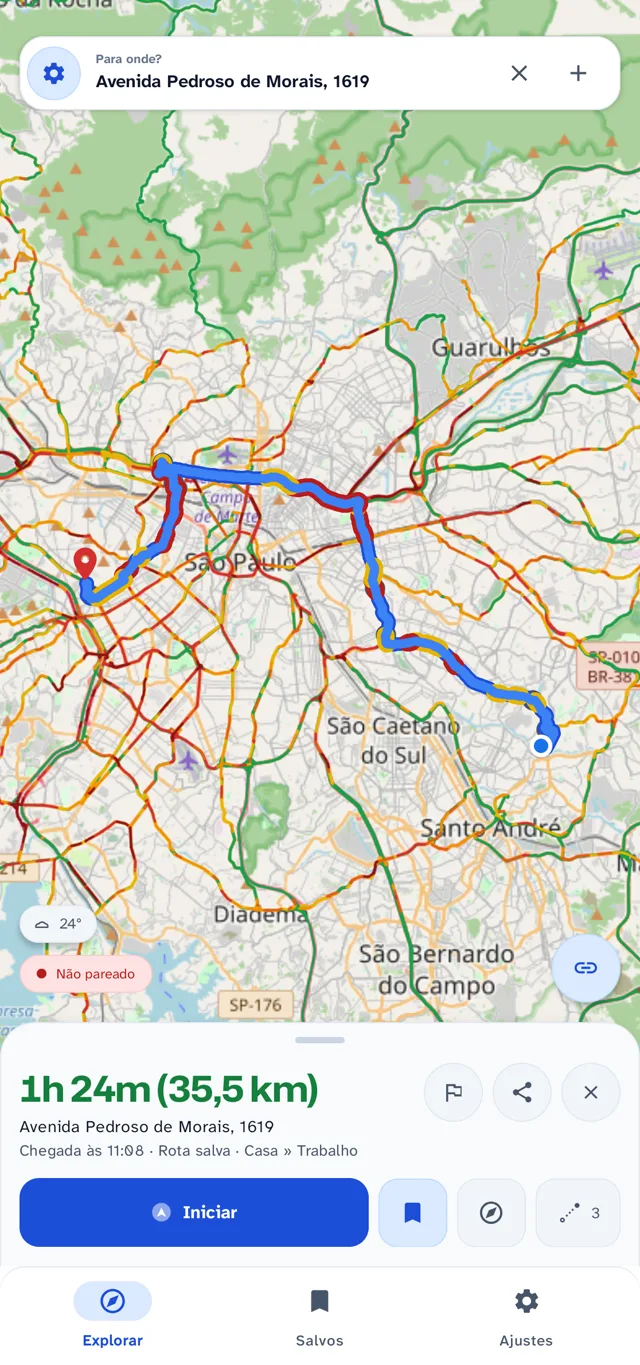
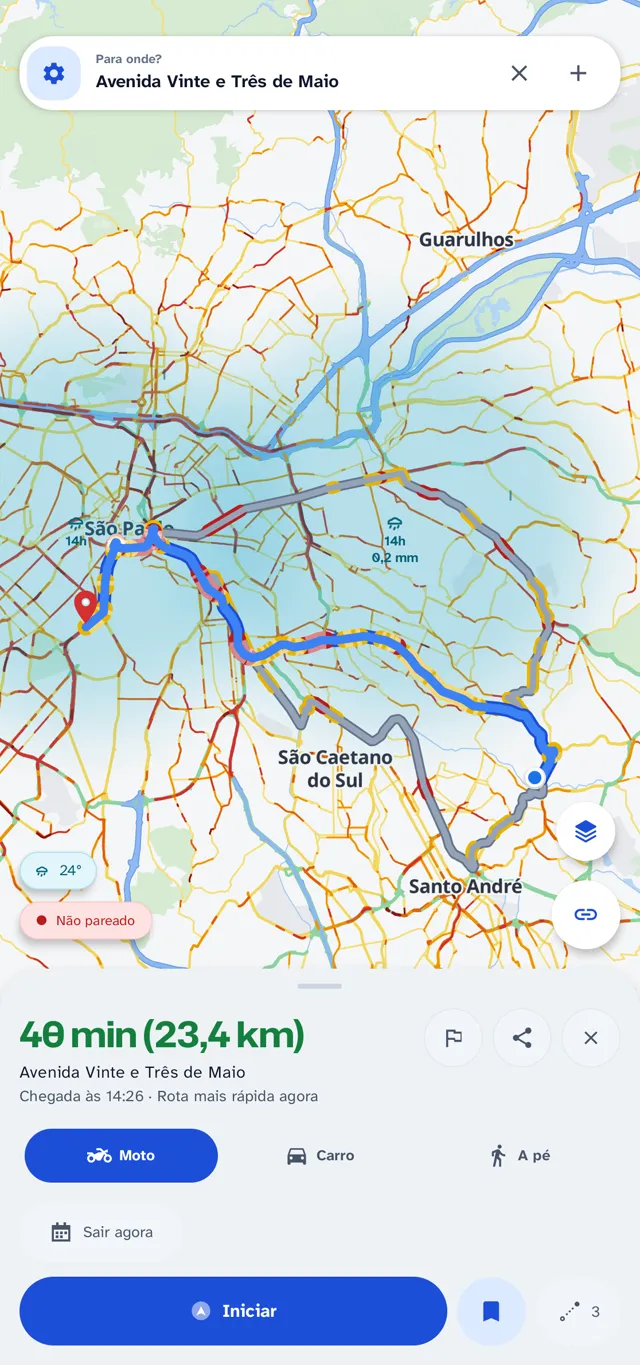
feat: show the features added since app 1.18
New feature cards, a Rota Biker passport section and fresh app screenshots
that leave out the home address shown by the old saved routes shot.

diff --git a/src/app/sections/passport-section.ts b/src/app/sections/passport-section.ts
@@ -1,0 +1,134 @@
+import { ChangeDetectionStrategy, Component } from '@angular/core';
+
+import { RevealDirective } from '../core/reveal.directive';
+import { Icon } from '../shared/icon';
+import { PhoneFrame, PhoneShot } from '../shared/phone-frame';
+
+const COVER: readonly PhoneShot[] = [
+  {
+    src: 'assets/shots/passport-cover.webp',
+    alt: 'Capa do Passaporte Rota Biker no app, com 2 de 37 monumentos carimbados',
+  },
+];
+
+const STAMP: readonly PhoneShot[] = [
+  {
+    src: 'assets/shots/passport-stamp.webp',
+    alt: 'Página do passaporte com o carimbo do monumento 27, Restaurante Pedra do Baú, e a data da visita',
+  },
+];
+
+@Component({
+  selector: 'app-passport-section',
+  imports: [Icon, PhoneFrame, RevealDirective],
+  template: `
+    <section class="section passport" id="passaporte">
+      <div class="container layout">
+        <header class="section-heading" appReveal>
+          <span class="eyebrow"><app-icon name="passport" [size]="18" /> Rota Biker</span>
+          <h2>Um passaporte para carimbar na estrada</h2>
+          <p>
+            O MUSE conhece os monumentos da Rota Biker. Eles aparecem no mapa do app e no painel, e
+            o passaporte fica no app para folhear: capa, a sua identificação com foto e uma página
+            por monumento, com o carimbo e a data.
+          </p>
+          <ul class="points">
+            <li>
+              <app-icon name="route" [size]="22" />
+              <span
+                ><strong>Desvio sugerido</strong>: ao planejar uma rota que passa perto de um
+                monumento sem carimbo, um toque e ele vira parada</span
+              >
+            </li>
+            <li>
+              <app-icon name="check" [size]="22" />
+              <span
+                ><strong>Carimbo no fim da viagem</strong>: passou por um monumento, o app pergunta
+                se você carimbou</span
+              >
+            </li>
+            <li>
+              <app-icon name="cloud" [size]="22" />
+              <span
+                ><strong>Guardado na sua conta Google</strong>, com a foto, em todos os seus
+                celulares</span
+              >
+            </li>
+          </ul>
+        </header>
+
+        <div class="phones" appReveal="120">
+          <app-phone-frame class="phones__back" [shots]="cover" [width]="250" />
+          <app-phone-frame class="phones__front" [shots]="stamp" [width]="250" />
+        </div>
+      </div>
+    </section>
+  `,
+  styles: `
+    .passport {
+      background: linear-gradient(180deg, transparent, #f2f7f7 30%, #f2f7f7 70%, transparent);
+    }
+    .layout {
+      display: grid;
+      grid-template-columns: minmax(0, 1fr) minmax(0, 1fr);
+      gap: 48px;
+      align-items: center;
+    }
+    .section-heading {
+      margin-bottom: 0;
+    }
+    .points {
+      display: grid;
+      gap: 16px;
+      margin: 32px 0 0;
+      padding: 0;
+      list-style: none;
+    }
+    .points li {
+      display: flex;
+      gap: 14px;
+      align-items: flex-start;
+      color: var(--ink-muted);
+      font-size: 17px;
+      line-height: 26px;
+    }
+    .points app-icon {
+      flex: none;
+      margin-top: 2px;
+      color: #1f6b6b;
+    }
+    .points strong {
+      color: var(--ink);
+    }
+    .phones {
+      position: relative;
+      display: flex;
+      justify-content: center;
+      padding-block: 24px;
+    }
+    .phones__back {
+      transform: rotate(-6deg) translateX(40px);
+    }
+    .phones__front {
+      transform: rotate(5deg) translate(-40px, 36px);
+    }
+    @media (max-width: 900px) {
+      .layout {
+        grid-template-columns: minmax(0, 1fr);
+      }
+    }
+    @media (max-width: 560px) {
+      .phones__back {
+        display: none;
+      }
+      .phones__front {
+        transform: none;
+      }
+    }
+  `,
+  changeDetection: ChangeDetectionStrategy.OnPush,
+})
+export class PassportSection {
+  protected readonly cover = COVER;
+  protected readonly stamp = STAMP;
+}

diff --git a/src/app/sections/features.ts b/src/app/sections/features.ts
@@ -21,13 +21,49 @@ const FEATURES: readonly Feature[] = [
     icon: 'gauge',
     tone: 'coral',
     title: 'Velocímetro com o limite da via',
-    text: 'A sua velocidade em números grandes. Quando você passa do limite, o número fica vermelho e a placa do limite aparece. O limite vem do mapa e, onde o mapa não diz, do padrão daquele tipo de via.',
+    text: 'A sua velocidade em números grandes. A placa do limite fica ao lado, e quando você passa dele o número fica vermelho. O limite vem do mapa e, onde o mapa não diz, do padrão daquele tipo de via.',
   },
   {
     icon: 'bell',
     tone: 'sun',
-    title: '18 tipos de alerta',
+    title: '19 tipos de alerta',
     text: 'Radar, lombada, pedágio, semáforo, passagem de trem, trecho com acidentes de moto e mais, avisados antes de você chegar, no app e no guidão.',
+  },
+  {
+    icon: 'voice',
+    tone: 'berry',
+    title: 'Voz no fone',
+    text: '"Em 200 metros, vire à esquerda na Avenida Paulista." O app fala as manobras e os alertas no fone ou no intercomunicador, sem internet. Escolha sem som, só alertas ou tudo.',
+  },
+  {
+    icon: 'layers',
+    tone: 'sky',
+    title: 'Mapa em 3D',
+    text: 'Um mapa desenhado para o MUSE, inclinado à frente como no Waze, em 2D ou com o norte para cima. O painel acompanha: o mapa dele também fica em perspectiva.',
+  },
+  {
+    icon: 'vehicle',
+    tone: 'coral',
+    title: 'De moto, de carro ou a pé',
+    text: 'A rota de moto foge das vias proibidas para moto no horário em que você passa por elas. A de carro respeita o rodízio de São Paulo pela sua placa.',
+  },
+  {
+    icon: 'calendar',
+    tone: 'leaf',
+    title: 'Viagem planejada',
+    text: 'Marque a saída para mais tarde, até uma semana à frente. O tempo é o do trânsito de costume naquela hora, o clima é o da hora em que você passa, e o app compara cinco horários de saída.',
+  },
+  {
+    icon: 'lane',
+    tone: 'sky',
+    title: 'Faixa Azul',
+    text: 'Os trechos de Faixa Azul de São Paulo aparecem no mapa, a rota de moto segue pelos corredores, e a prévia diz quanto do caminho é na faixa.',
+  },
+  {
+    icon: 'photo',
+    tone: 'sun',
+    title: 'Veja o destino antes de sair',
+    text: 'Fotos da rua em volta do destino e, onde houver, uma vista em 360° para olhar em volta e andar pela rua. Segure o dedo no mapa para marcar qualquer ponto.',
   },
   {
     icon: 'rain',
@@ -45,7 +81,7 @@ const FEATURES: readonly Feature[] = [
     icon: 'traffic',
     tone: 'coral',
     title: 'Trânsito ao vivo',
-    text: 'O trecho parado aparece em amarelo ou vermelho ao longo da rota, como no Waze, e a hora de chegada leva em conta que a moto passa pelo corredor.',
+    text: 'O trânsito pinta a própria via: laranja quando está lento, vermelho quando está pesado, vinho quando está parado. Vale para todo piloto, sem conta nenhuma, e a hora de chegada conta que a moto passa pelo corredor.',
   },
   {
     icon: 'stops',
@@ -57,7 +93,7 @@ const FEATURES: readonly Feature[] = [
     icon: 'toll',
     tone: 'sun',
     title: 'Pedágio sem cancela',
-    text: 'Nas rodovias com pedágio automático, o app percebe quando você passa e lembra do prazo para pagar, com a placa de cada moto cadastrada.',
+    text: 'Nas rodovias com pedágio automático, o app percebe quando você passa e lembra do prazo para pagar, com a placa de cada veículo cadastrado.',
   },
   {
     icon: 'history',
@@ -69,7 +105,7 @@ const FEATURES: readonly Feature[] = [
     icon: 'cloud',
     tone: 'leaf',
     title: 'Sincroniza com a sua conta Google',
-    text: 'Lugares, rotas salvas, viagens e motos ficam guardados no seu Google Drive. Trocou de celular, está tudo lá. Ninguém mais tem acesso.',
+    text: 'Lugares, rotas salvas, viagens, veículos e o passaporte ficam guardados no seu Google Drive. Trocou de celular, está tudo lá. Ninguém mais tem acesso.',
   },
   {
     icon: 'update',

diff --git a/src/app/shared/icon.ts b/src/app/shared/icon.ts
@@ -40,6 +40,14 @@ const ICONS: Record<string, string> = {
   file: 'M7 3h7l5 5v13H7V3Zm7 0v5h5M10 13h5m-5 4h5',
   install: 'M12 3v10m0 0 4-4m-4 4-4-4M5 17v2a2 2 0 0 0 2 2h10a2 2 0 0 0 2-2v-2',
   info: 'M12 3a9 9 0 1 0 0 18 9 9 0 0 0 0-18Zm0 5h.01M12 11v6',
+  voice: 'M4 10v4h4l5 4V6L8 10H4Zm12-1a4 4 0 0 1 0 6m2.5-8.5a7.5 7.5 0 0 1 0 11',
+  layers: 'm12 3 9 5-9 5-9-5 9-5Zm-9 9 9 5 9-5M3 16l9 5 9-5',
+  vehicle:
+    'M5 17a2 2 0 1 0 4 0 2 2 0 0 0-4 0Zm10 0a2 2 0 1 0 4 0 2 2 0 0 0-4 0ZM3 17V12l2-5h14l2 5v5M3 12h18M9 17h6',
+  lane: 'M5 21 9 3m10 18L15 3m-3 2v2m0 4v2m0 4v2',
+  photo:
+    'M4 7h3l2-3h6l2 3h3a1 1 0 0 1 1 1v11a1 1 0 0 1-1 1H4a1 1 0 0 1-1-1V8a1 1 0 0 1 1-1Zm8 3a3.5 3.5 0 1 0 0 7 3.5 3.5 0 0 0 0-7Z',
+  passport: 'M6 3h11a1 1 0 0 1 1 1v16a1 1 0 0 1-1 1H6V3Zm6 4a3 3 0 1 0 0 6 3 3 0 0 0 0-6Zm-3 10h6',
   github:
     'M12 3a9 9 0 0 0-2.8 17.5c.4.1.6-.2.6-.4v-1.6c-2.5.5-3-1.1-3-1.1-.4-1-1-1.3-1-1.3-.8-.6.1-.6.1-.6.9.1 1.4.9 1.4.9.8 1.4 2.1 1 2.6.8.1-.6.3-1 .6-1.2-2-.2-4.1-1-4.1-4.4 0-1 .3-1.8.9-2.4-.1-.2-.4-1.2.1-2.4 0 0 .8-.2 2.5.9a8.6 8.6 0 0 1 4.6 0c1.7-1.1 2.5-.9 2.5-.9.5 1.2.2 2.2.1 2.4.6.6.9 1.4.9 2.4 0 3.4-2.1 4.2-4.1 4.4.3.3.6.8.6 1.6v2.4c0 .2.2.5.6.4A9 9 0 0 0 12 3Z',
 };

diff --git a/src/app/sections/hero.ts b/src/app/sections/hero.ts
@@ -18,16 +18,15 @@ import { PhoneFrame, PhoneShot } from '../shared/phone-frame';
 const SHOTS: readonly PhoneShot[] = [
   {
     src: 'assets/shots/route-map.webp',
-    alt: 'Rota traçada no mapa do MUSE, com o trânsito das vias ao redor',
+    alt: 'Rota de moto traçada no mapa do MUSE, com o trânsito pintado nas vias e a chuva no caminho',
   },
   {
     src: 'assets/shots/route.webp',
-    alt: 'Prévia da rota: tempo, distância, riscos nesta rota e o clima no trajeto',
+    alt: 'Prévia da rota: moto, carro ou a pé, fotos da rua do destino e 8,7 km de Faixa Azul nesta rota',
   },
-  { src: 'assets/shots/home.webp', alt: 'Mapa do MUSE com os alertas da via por perto' },
   {
-    src: 'assets/shots/saved.webp',
-    alt: 'Rotas salvas com o retrato de radares, lombadas e semáforos de cada uma',
+    src: 'assets/shots/planned.webp',
+    alt: 'Viagem planejada para terça às 7h30, com o clima de cada horário de saída',
   },
 ];
 

diff --git a/src/app/pages/landing/landing.ts b/src/app/pages/landing/landing.ts
@@ -8,6 +8,7 @@ import { Hero } from '../../sections/hero';
 import { HowItWorks } from '../../sections/how-it-works';
 import { OfflineSection } from '../../sections/offline-section';
 import { PanelSection } from '../../sections/panel-section';
+import { PassportSection } from '../../sections/passport-section';
 import { SiteFooter } from '../../sections/site-footer';
 import { SiteHeader } from '../../sections/site-header';
 
@@ -22,6 +23,7 @@ import { SiteHeader } from '../../sections/site-header';
     HowItWorks,
     OfflineSection,
     PanelSection,
+    PassportSection,
     SiteFooter,
     SiteHeader,
   ],
@@ -35,6 +37,7 @@ import { SiteHeader } from '../../sections/site-header';
       <app-alerts-strip />
       <app-panel-section />
       <app-offline-section />
+      <app-passport-section />
       <app-changelog-section />
       <app-download-section />
     </main>
